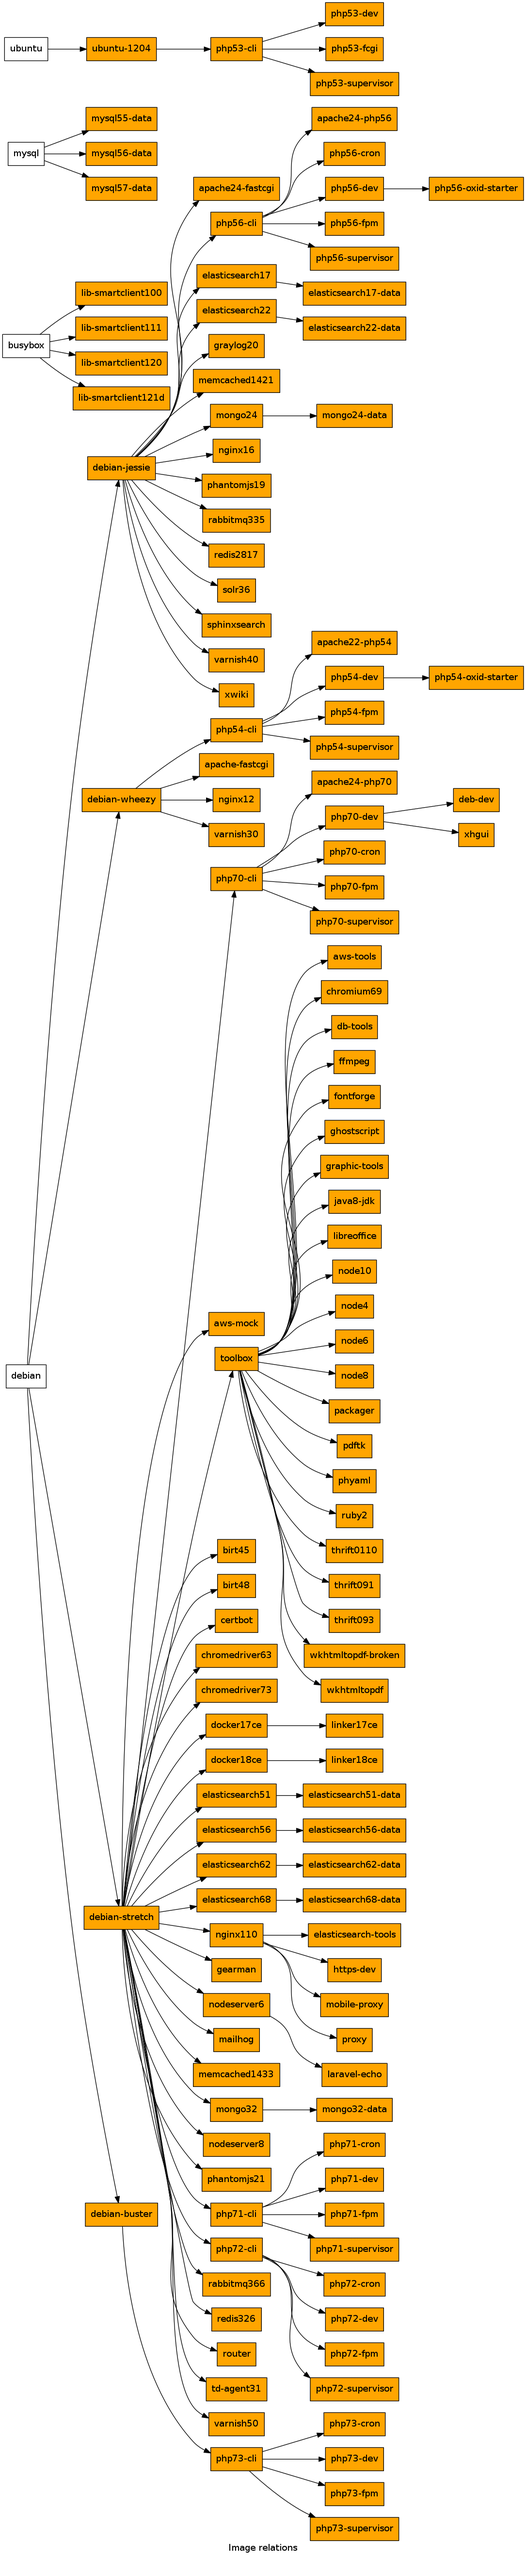
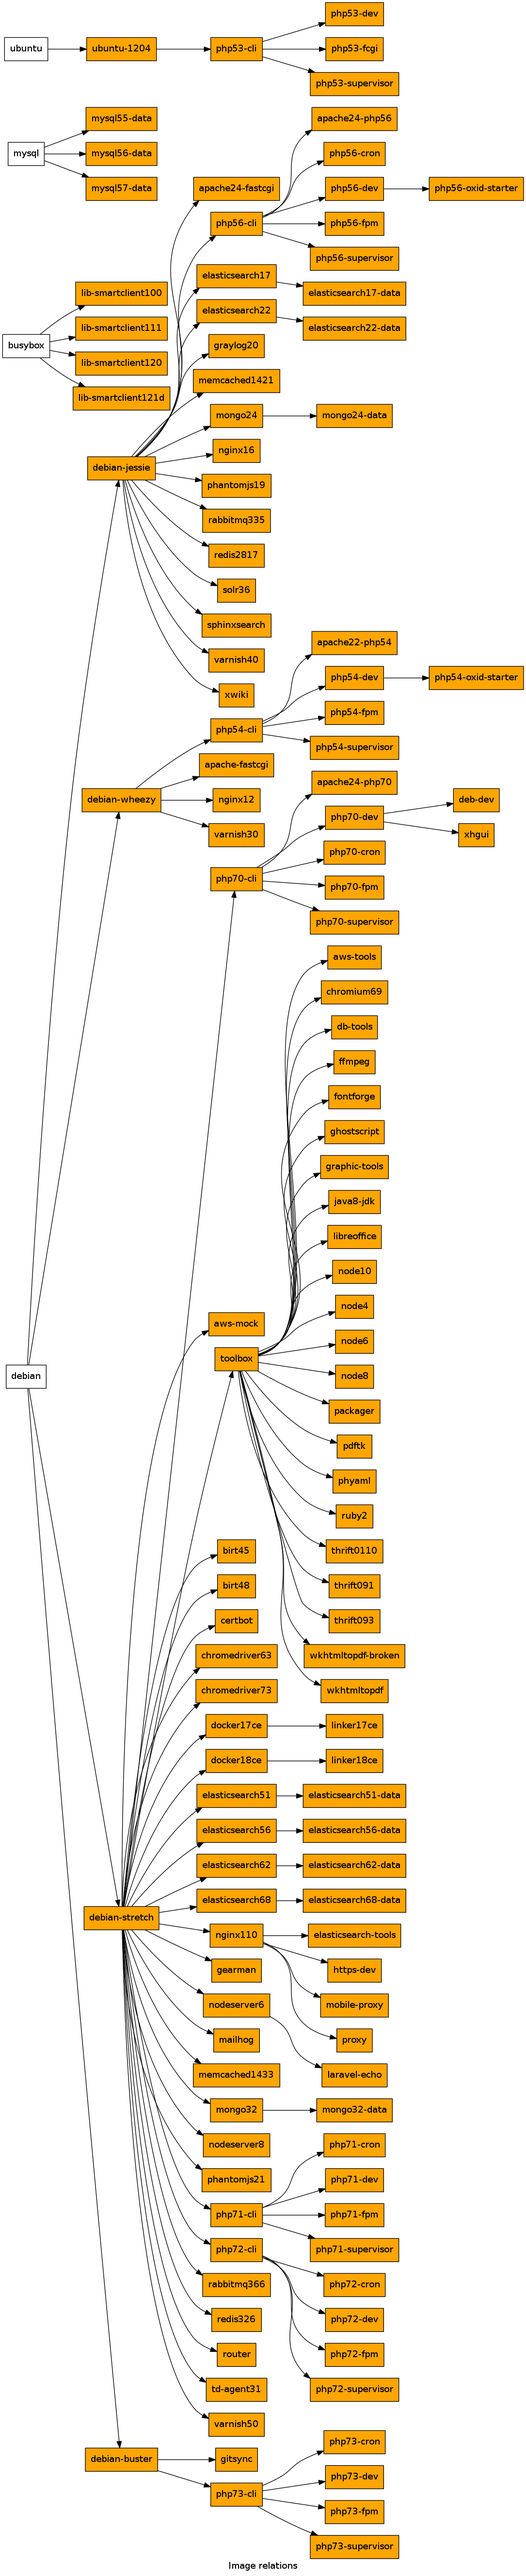
adding gitsync image

diff --git a/gitsync/README.md b/gitsync/README.md
@@ -1,0 +1,21 @@
+## intro
+
+This image is intended for git repository one way sync. It makes target
+repository a mirror of source repository, including branches and tags.
+
+__Make sure that target service allows force pushing to all branches.__
+
+__Also note that any changes in target repository will be lost__
+
+## supported env vars
+
+
+### NFQ_SOURCE_REPO (required)
+
+Repository URL to clone changes from
+
+
+### NFQ_TARGET_REPO (required)
+
+Repository URL to push changes to
+
